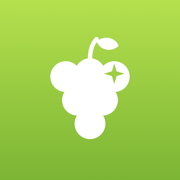
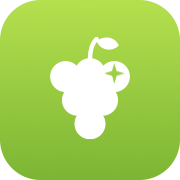
임장 체크리스트 1.12.1: ShineDesign 공식 아이콘·SVG 파비콘 반영
- apple-touch-icon-180 을 ShineDesign 공식 180px 에셋으로 교체
- 데스크톱 탭용 SVG 파비콘(shinemuscat-mark-green.svg) 링크 추가
- 캐시 버전 v1.12.1 로 올려 바뀐 아이콘이 기기에 전달되게 함

diff --git a/index.html b/index.html
@@ -18,6 +18,7 @@
   <meta name="theme-color" content="#151517" media="(prefers-color-scheme: dark)">
 
   <link rel="apple-touch-icon" sizes="180x180" href="icons/apple-touch-icon-180.png">
+  <link rel="icon" type="image/svg+xml" href="icons/shinemuscat-mark-green.svg">
   <link rel="icon" type="image/png" sizes="192x192" href="icons/icon-192.png">
   <link rel="manifest" href="manifest.webmanifest">
   <link rel="stylesheet" href="styles.css">
@@ -79,7 +80,7 @@
            '인터넷 연결이나, Mac 에서 켠 서버가 아직 켜져 있는지 확인한 뒤 다시 시도해 주세요.']
         : ['파일 앱에서 index.html 을 바로 열면 iPhone·iPad 는 같은 폴더의 앱 파일(app.js 등)을 불러오지 못해요.',
            '웹 주소로 열어 주세요.',
-           '① 같은 Wi-Fi: Mac 터미널에서 "cd ~/Documents/임장체크리스트 && python3 -m http.server 8765" 실행 → iPad Safari 에서 http://<Mac IP>:8765',
+           '① 같은 Wi-Fi: Mac 터미널에서 "cd ~/Documents/ShineMuscat/ShineEstate && python3 -m http.server 8765" 실행 → iPad Safari 에서 http://<Mac IP>:8765',
            '② 계속 쓰려면: GitHub Pages 같은 https 주소에 올려 Safari 로 열고 홈 화면에 추가',
            '자세한 방법은 폴더의 README.md 에 있어요.'];
       lines.forEach(function (t) {

diff --git a/app.js b/app.js
@@ -35,7 +35,7 @@
   // =====================================================
   // 1. 상수
   // =====================================================
-  var APP_VERSION = '1.12.0';
+  var APP_VERSION = '1.12.1';
   var STORAGE_KEY = 'imjang.v1';
   var DRAFT_KEY = 'imjang.v1.draft'; // 새 매물 폼 임시 저장(앱이 내려가도 남도록 localStorage)
   // 1.6.0 검토 반영: 매물의 1.6.0 필드(등기부 기록·지운 기록 표시·매도인 이름) 사본. 예전(1.5.x) 탭이 이 필드를 빼고 저장해도 되살린다

diff --git a/sw.js b/sw.js
@@ -8,7 +8,7 @@
 'use strict';
 
 var CACHE_PREFIX = 'imjang-static-';
-var CACHE_VERSION = CACHE_PREFIX + 'v1.12.0';
+var CACHE_VERSION = CACHE_PREFIX + 'v1.12.1';
 
 // 사전 캐시 목록 — 실제 파일과 반드시 일치해야 한다(하나라도 없으면 설치 실패).
 // tools/make-dist.js 가 이 목록의 파일만 배포 폴더로 복사한다.
